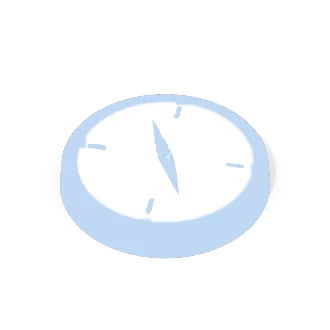
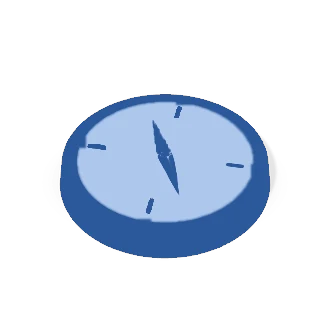
Cabeceras: banda curva más oscura (opción 2), objeto en dos tonos y número blanco; calendario sin desvanecido
- La banda de cada sección un tono más de color.
- Objetos de la cabecera en dos tonos del módulo y el número del aro en blanco.
- Calendario del mes: el nombre de la rutina entero, sin el desvanecido al borde.

Claude-Session: https://claude.ai/code/session_017q9eB3jcU4JAqbgUHmF9x1

Changed region(s): [[0.1818, 0.2727, 0.8182, 0.7879]]

diff --git a/src/CabeceraHoy.jsx b/src/CabeceraHoy.jsx
@@ -40,12 +40,12 @@ const pastel = (hex, f = 0.24) => {
 // grande sobre claro).
 export const TEMAS = {
   // Entrenamiento: grises con un toque de amarillo suave (mancha y frase).
-  entreno: { banda: ['#B9BFC7', '#CDD1D7'], m1: '#A3AAB3', m2: '#D5D9DE', m3: '#F4DC93', base: '#EFF0F2', tinta: '#C9A43E' },
-  comida:  { banda: ['#C3E3CB', '#D6EDDC'], m1: '#9CCFA8', m2: '#D7EEDC', m3: '#F7E1A0', base: '#F0F8F1', tinta: '#2F7F45' },
-  aprende: { banda: ['#F7CFAF', '#FADFCA'], m1: '#F6B98C', m2: '#FBE0CB', m3: '#A9C6EE', base: '#FDF3EA', tinta: '#C95F17' },
+  entreno: { banda: ['#888E97', '#90969E'], m1: '#A3AAB3', m2: '#D5D9DE', m3: '#F4DC93', base: '#EFF0F2', tinta: '#C9A43E' },
+  comida:  { banda: ['#7EB98D', '#87BD94'], m1: '#9CCFA8', m2: '#D7EEDC', m3: '#F7E1A0', base: '#F0F8F1', tinta: '#2F7F45' },
+  aprende: { banda: ['#F2A66B', '#F3AD78'], m1: '#F6B98C', m2: '#FBE0CB', m3: '#A9C6EE', base: '#FDF3EA', tinta: '#C95F17' },
   // El Dash, todo en azules: banda más intensa y manchas de varios tonos
   // de azul; la segunda línea de la frase, en el azul de la sección.
-  dash:    { banda: ['#86ADE5', '#A3C2EE'], m1: '#7FA6E2', m2: '#B9D0F3', m3: '#5E92DA', m4: '#D0DFF6', base: '#E3ECF9', tinta: '#2F6CC4' },
+  dash:    { banda: ['#5D92DD', '#6A9BE1'], m1: '#7FA6E2', m2: '#B9D0F3', m3: '#5E92DA', m4: '#D0DFF6', base: '#E3ECF9', tinta: '#2F6CC4' },
 };
 
 const CSS = `
@@ -191,7 +191,7 @@ export default function CabeceraHoy({ tema = 'entreno', voz, titulo, firma = fal
                   <div style={{ position: 'relative', width: ARO_G.objAncho, height: ARO_G.objAlto }}>
                     <div style={{ position: 'absolute', left: dentro.left, top: dentro.top, width: dentro.lado, height: dentro.lado }}><ObjetoCabecera tema={tema} activo={objetoAnima} tono="dos" /></div>
                   </div>
-                  <div data-aro-centro style={{ marginTop: 1, fontSize: 18, fontWeight: 800, color: TEXT, letterSpacing: '-0.02em', fontVariantNumeric: 'tabular-nums', lineHeight: 1 }}>{aro.centro}</div>
+                  <div data-aro-centro style={{ marginTop: 1, fontSize: 18, fontWeight: 800, color: '#FFFFFF', letterSpacing: '-0.02em', fontVariantNumeric: 'tabular-nums', lineHeight: 1 }}>{aro.centro}</div>
                 </div>
               </AnilloMarca>
               </CapaActiva.Provider>

diff --git a/src/EntrenoMes.jsx b/src/EntrenoMes.jsx
@@ -1668,6 +1668,9 @@ function estadoCal(dia, hoy) {
   return dia.hecho ? 'hecha' : null;
 }
 
+// «Lower + Core»: que el «+» no quede solo en un renglón.
+const nombreConMas = (t) => String(t || '').replace(/ \+ /g, '\u00a0+ ');
+
 function ChipCal({ nombre, estado, arrastre }) {
   const hecha = estado === 'hecha';
   const st = hecha ? { background: GRAFITO_CAL, color: '#fff' }
@@ -1676,14 +1679,10 @@ function ChipCal({ nombre, estado, arrastre }) {
     : { background: GRIS_CAL, color: GRAFITO_CAL };
   return (
     <div {...(arrastre || {})} onContextMenu={e => e.preventDefault()} data-chip={hecha ? 'hecha' : estado === 'movida' ? 'movida' : estado === 'perdida' ? 'perdida' : 'pendiente'} style={{
-      // Una sola línea, como el Calendario de Apple en vista de mes: el nombre
-      // se recorta con un desvanecido al borde (completo al tocar el día).
-      ...st, borderRadius: 7, padding: '3px 4px', fontSize: 10.5, fontWeight: 700, lineHeight: 1.2, letterSpacing: '-0.03em', textAlign: 'left',
-      whiteSpace: 'nowrap', overflow: 'hidden',
-      WebkitMaskImage: 'linear-gradient(90deg, #000 78%, transparent)', maskImage: 'linear-gradient(90deg, #000 78%, transparent)',
-      WebkitUserSelect: 'none', userSelect: 'none', WebkitTouchCallout: 'none', cursor: arrastre ? 'grab' : 'pointer',
+      ...st, borderRadius: 7, padding: '3px 3px', fontSize: 10.5, fontWeight: 700, lineHeight: 1.15, letterSpacing: '-0.03em', textAlign: 'left',
+      overflowWrap: 'normal', wordBreak: 'keep-all', WebkitUserSelect: 'none', userSelect: 'none', WebkitTouchCallout: 'none', cursor: arrastre ? 'grab' : 'pointer',
     }}>
-      {String(nombre || '').replace(/ \+ /g, '+')}
+      {nombreConMas(nombre)}
     </div>
   );
 }
